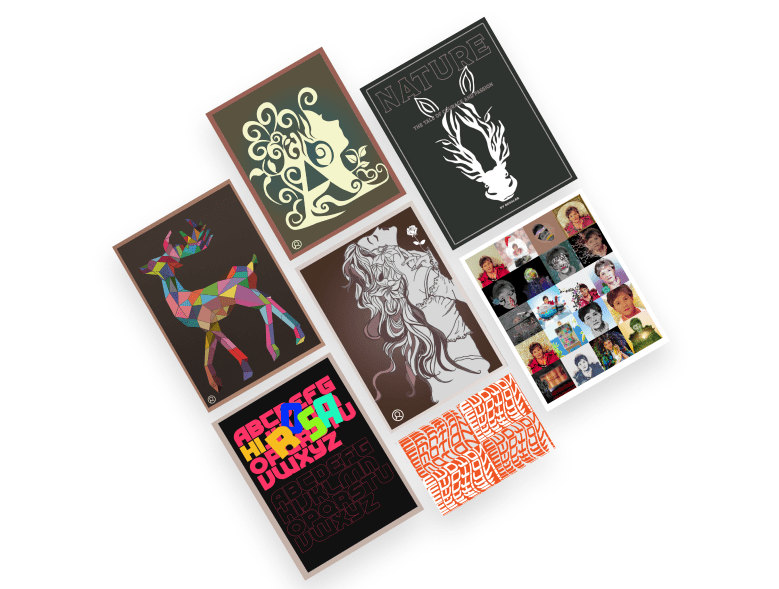
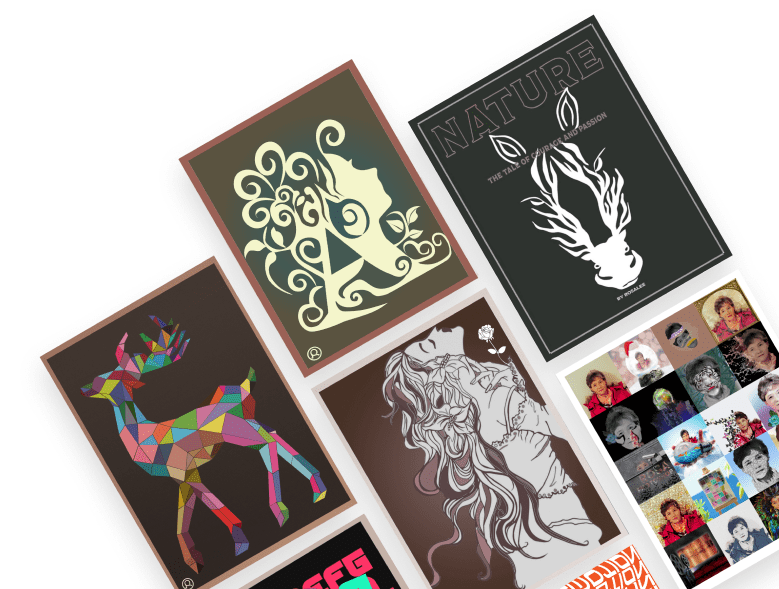
update photo

diff --git a/pages/index.vue b/pages/index.vue
@@ -26,9 +26,11 @@
     <div class="anim-fade-y bg-transparent" style="height: 100vh"></div>
     <!-- Spacer end -->
     <section class="h-screen w-full bg-white">
+      <!-- small: 1 column, tablet: 12 columns -->
       <div
         class="h-screen grid grid-cols-1 md:grid-cols-12 grid-rows-12 md:grid-rows-6 grid-flow-col"
       >
+        <!-- small: 1 column, tablet: 5 columns inside 12 columns -->
         <div class="md:col-span-5">
           <button
             v-for="category in categoryInfos"
@@ -62,15 +64,13 @@
             </div>
           </button>
         </div>
-        <!-- <div
-          class="hidden md:grid md:col-span-1 md:row-start-1 md:row-end-7"
-        ></div> -->
+        <!-- small: 1 column, tablet: 7 columns inside 12 columns -->
         <div
-          class="col-span-7 row-span-full border-2 border-gray-900 overflow-hidden"
+          class="col-span-1 md:col-span-7 row-span-full border-2 border-gray-900 overflow-hidden"
         >
           <div class="md:mx-12 md:mt-8 lg:mx-24 mt-12">
-            <div class="">
-              <div class="">
+            <div class="grid h-screen row-span-full">
+              <div class="col-span-12 row-span-4">
                 <h3 class="anim-fade-y font-display text-4xl mb-4">
                   {{ currentObj.name }}
                 </h3>
@@ -110,11 +110,10 @@
                   </svg>
                 </nuxt-link>
               </div>
-
-              <div class="relative anim-fade-y border-2 border-yellow-800">
-                <div class="img-preview absolute top-16 left-16">
+              <div class="col-span-12 row-span-8 anim-fade-y">
+                <div class="relative img-preview">
                   <img
-                    class="custom-category-img min-w"
+                    class="custom-category-img"
                     :src="require(`~/assets/img/${currentObj.img}`)"
                   />
                 </div>
@@ -181,7 +180,7 @@ export default {
               amet autem eius obcaecati illo, tempora quam natus architecto
               sequi qui earum facere cumque, excepturi totam ipsum voluptatem ex
               dicta est?`,
-          img: "img-index/preview-photo-1.png",
+          img: "img-index/preview-photo.png",
         },
         logo: {
           id: "logo",
@@ -423,5 +422,9 @@ export default {
 }
 
 .img-preview {
+  transform: translate(45%, 0%);
+  overflow: hidden;
+  img {
+  }
 }
 </style>

diff --git a/layouts/default.vue b/layouts/default.vue
@@ -48,7 +48,7 @@ NOTE Concentric CSS Approach
 */
 
 body {
-  overflow: hidden;
+  // overflow: hidden;
 }
 
 /* ScrollBar */
